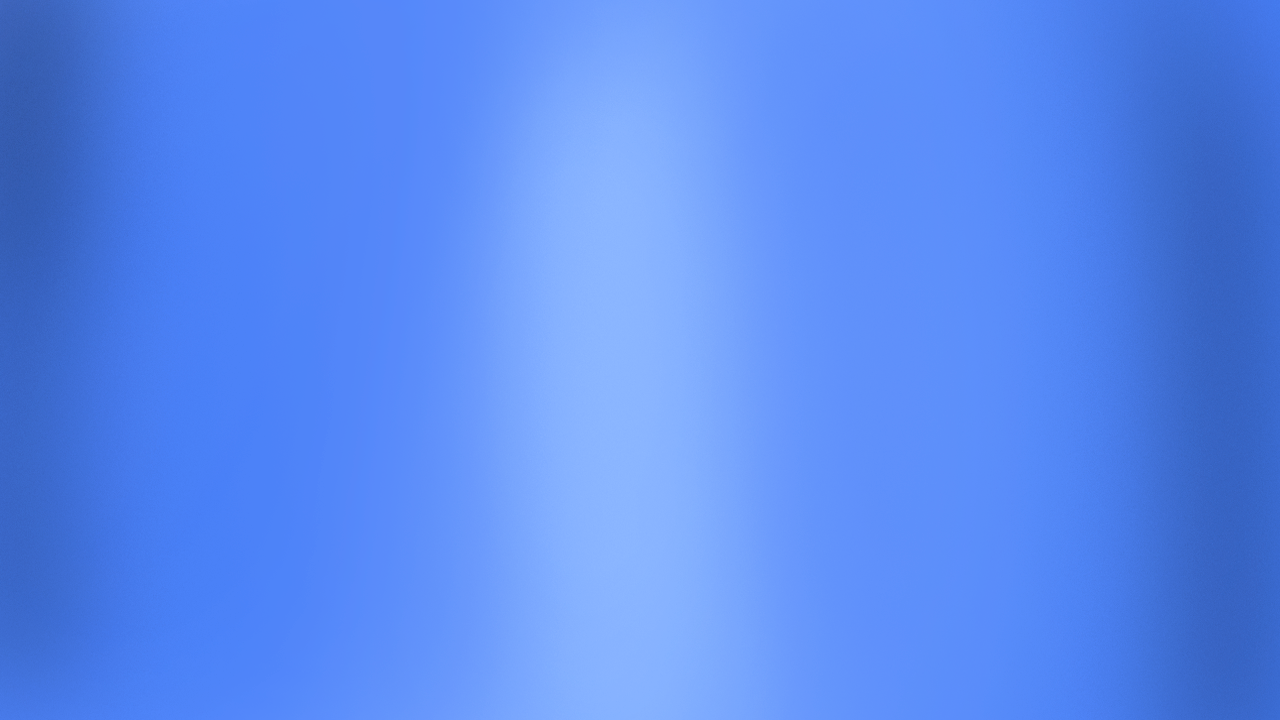
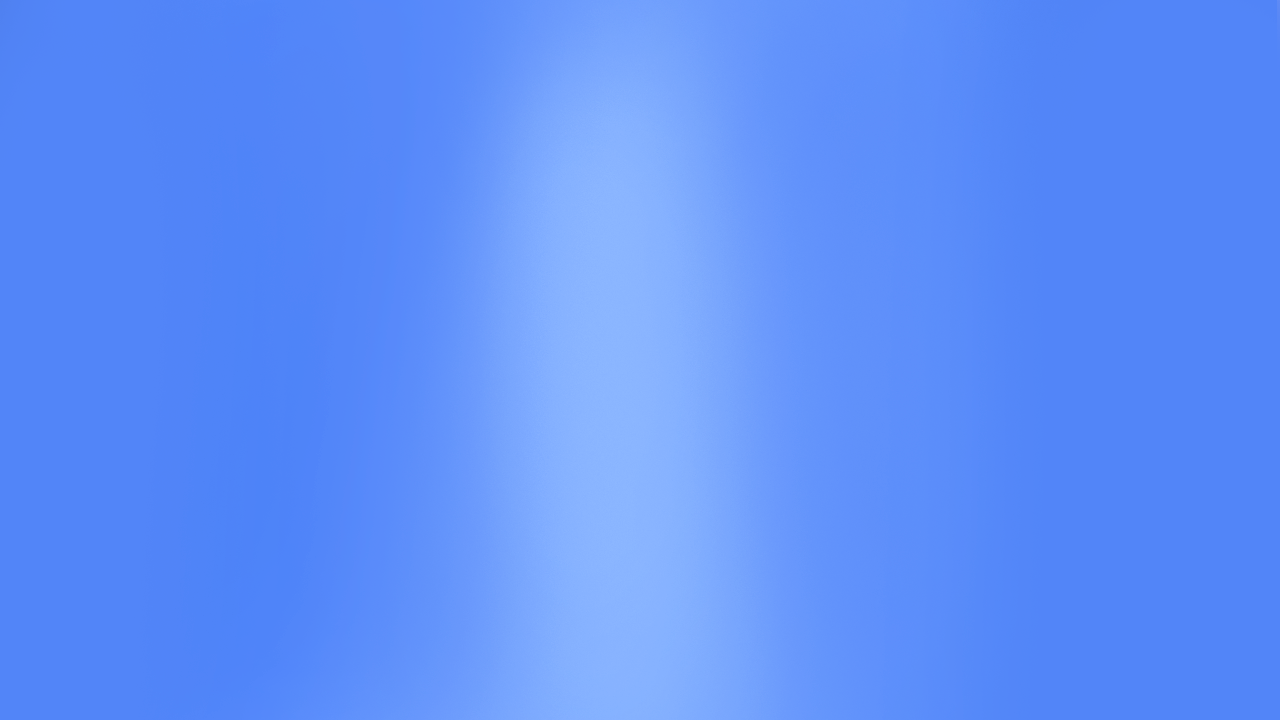
oe

Changed region(s): [[0.875, 0.0, 1.0, 1.0], [0.0, 0.0, 0.0938, 0.9778]]

diff --git a/Alpha wtf/src/scene.js b/Alpha wtf/src/scene.js
@@ -12,6 +12,7 @@ class scene extends Phaser.Scene {
         this.load.image('tilesP6', 'Alpha wtf/assets/tilesets/plan6_tilesheet.png');
         this.load.image('tilesP7', 'Alpha wtf/assets/tilesets/plan7_tilesheet.png');
         this.load.image('degrade', 'Alpha wtf/assets/images/degradé.png');
+        this.load.image('vignette', 'Alpha wtf/assets/images/effetVignette.png');
 
         this.load.image('spike', 'Alpha wtf/assets/images/spike.png');
         this.load.image('player', 'Alpha wtf/assets/images/player_base.png');
@@ -57,6 +58,8 @@ class scene extends Phaser.Scene {
 
         this.Plan4Fixe = map.createLayer('Plan4Fixe', tilesetP4);
 
+        this.vignette = this.add.image(0,0,'vignette').setOrigin(0,0);
+
         this.Plan3Fixe = map.createLayer('Plan3Fixe', tileset);
         this.Plan3Fixe.setPipeline('Light2D');
 
@@ -90,6 +93,9 @@ class scene extends Phaser.Scene {
         this.backgroundImage.scrollFactorX=0;
         this.backgroundImage.scrollFactorY=0;
 
+        this.vignette.scrollFactorX=0;
+        this.vignette.scrollFactorY=0.9;
+
         this.Plan3Fixe.scrollFactorX=1;
         this.Plan3Fixe.scrollFactorY=1;
 
@@ -113,8 +119,8 @@ class scene extends Phaser.Scene {
         this.Plan6Fixe.scrollFactorX=0.6;
         this.Plan6Fixe.scrollFactorY=0.6;
 
-        this.Plan7Fixe.scrollFactorX=0.3;
-        this.Plan7Fixe.scrollFactorY=0.3;
+        this.Plan7Fixe.scrollFactorX=0.5;
+        this.Plan7Fixe.scrollFactorY=0.5;
 
 
         //CURSOR
